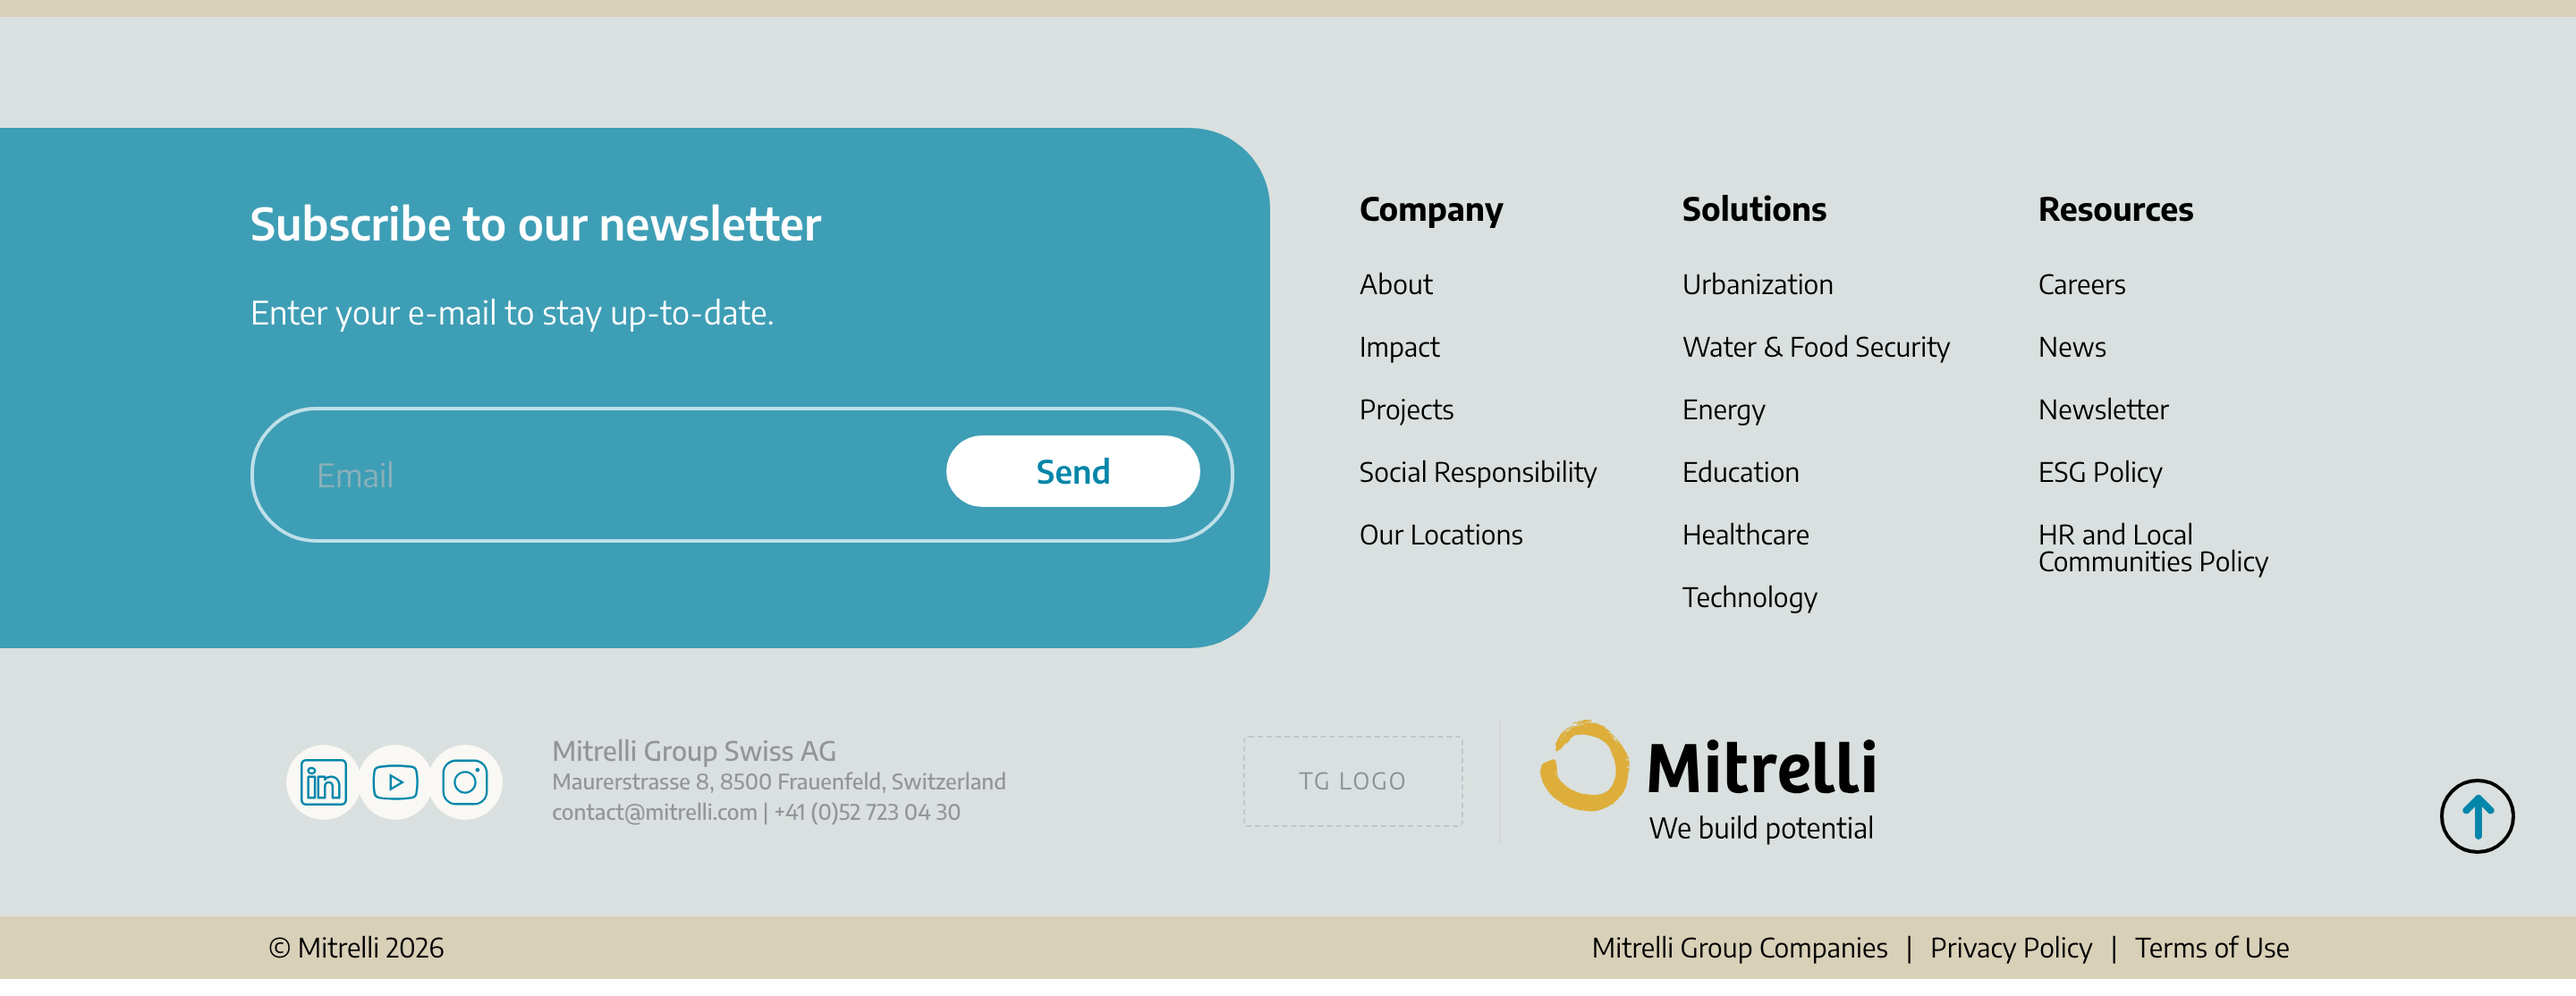
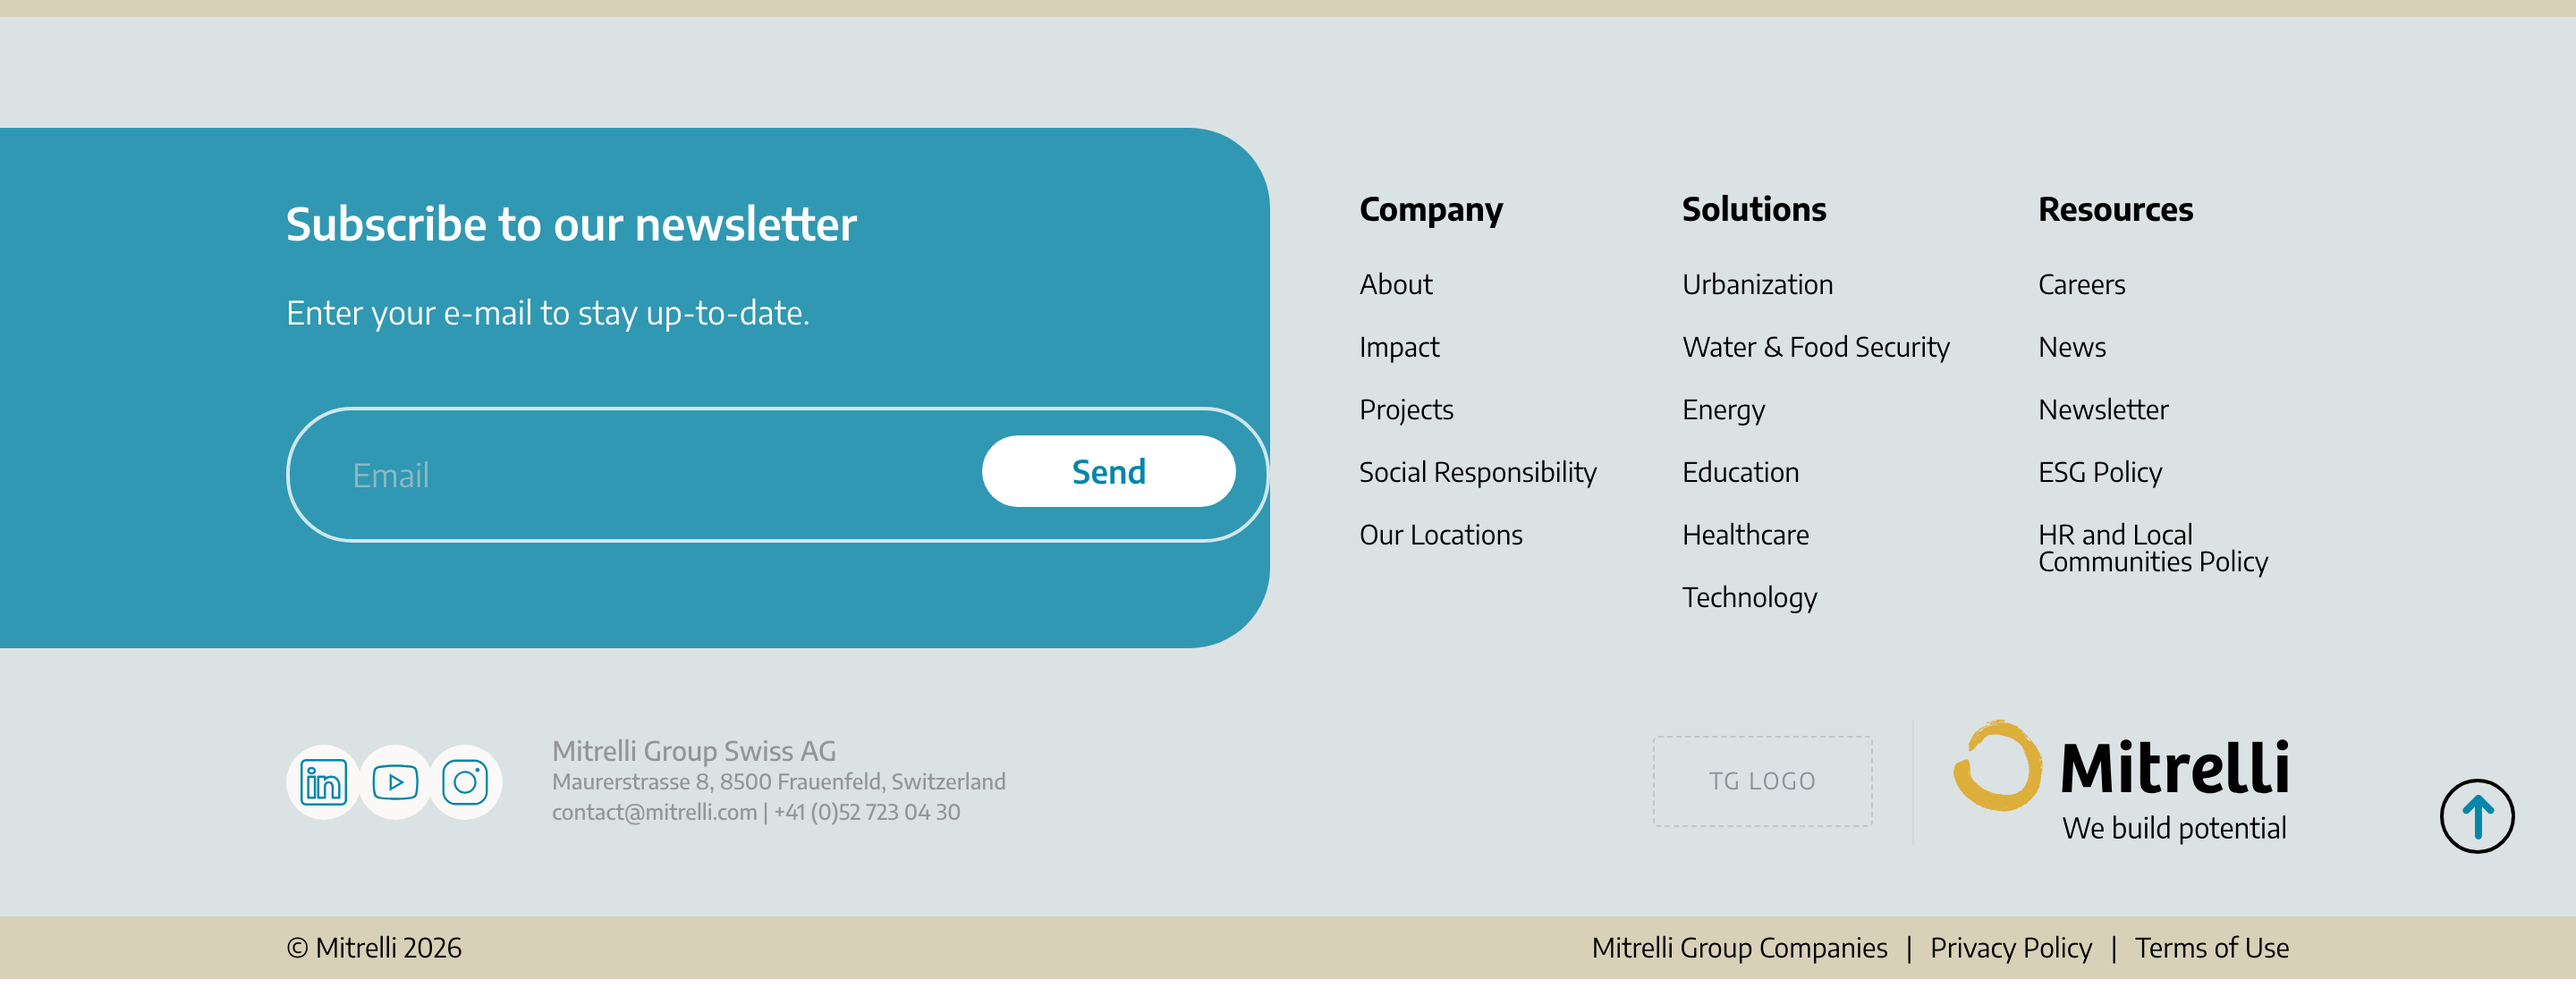
KEN-30: align the footer columns to a single gutter
The left column did not line up with itself and the brand lockup did not reach
the right edge. Measured on desktop, before:

  subscribe heading  160    social icons  160
  copyright          150    Mitrelli logo ends 1049

The gutter the rest of the footer uses is 160 left and 1280 right, which is
where the legal links already sat.

- lockup: justify to the right edge. Elementor containers resolve this through
  a custom property, and its generated stylesheet loads after the theme, so
  this needed both the property and a higher specificity selector
- subscribe card: content moved from 150 to 160
- copyright: nudged 10px to match its neighbours, which sit inside containers
  carrying padding it does not have

Desktop only; the narrower breakpoints keep the spacing set in Elementor.

After: all four left items at 160, logo and legal links both ending at 1280.

diff --git a/assets/css/footer-brand.css b/assets/css/footer-brand.css
@@ -10,11 +10,45 @@
  * it. Replacing the placeholder with the real image widget needs no CSS change.
  */
 
+/* Elementor writes its own per-element rules into a generated stylesheet that
+   loads after the theme, so a single-class selector here loses the cascade.
+   Doubling up on the container class raises specificity enough to win. */
+.e-con.footer-brand-lockup,
 .footer-brand-lockup {
 	display: flex;
 	align-items: center;
 	gap: 22px;
-	margin-left: auto; /* pushes the lockup to the right edge of the row */
+	margin-left: auto;         /* pushes the lockup across to the right */
+	justify-content: flex-end; /* and sits the marks on the right edge of it */
+
+	/* Elementor containers resolve justification through these custom
+	   properties, so the plain declarations above are not enough on their own. */
+	--justify-content: flex-end;
+	--align-items: center;
+}
+
+/**
+ * Footer gutter.
+ *
+ * The footer's right-hand edge sits 150px in: the legal links, the nav columns
+ * and the bottom row all end there. On the left, the social icons and the
+ * copyright line start at 150px, but the subscribe card's content started at
+ * 130px, so the left column did not line up with itself.
+ *
+ * Desktop only. The narrower breakpoints use their own spacing, set in
+ * Elementor, and should not inherit this.
+ */
+@media (min-width: 1025px) {
+	.subscribe-container > .e-con {
+		margin-left: 140px; /* 140 + the 10px container padding = 150 */
+	}
+
+	/* The copyright line sat 10px left of everything else, because its
+	   neighbours all sit inside containers carrying 10px of padding and it
+	   does not. Nudging it brings the whole left column onto 160px. */
+	.elementor-location-footer .elementor-element-e3b1ccc {
+		padding-left: 10px;
+	}
 }
 
 /* Hairline between the two marks, drawn in the gap rather than inside either
